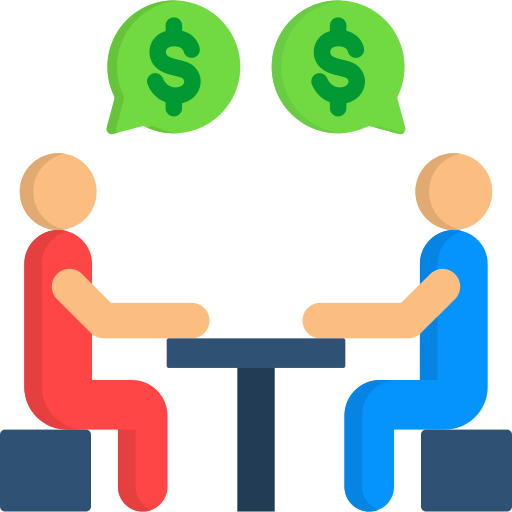
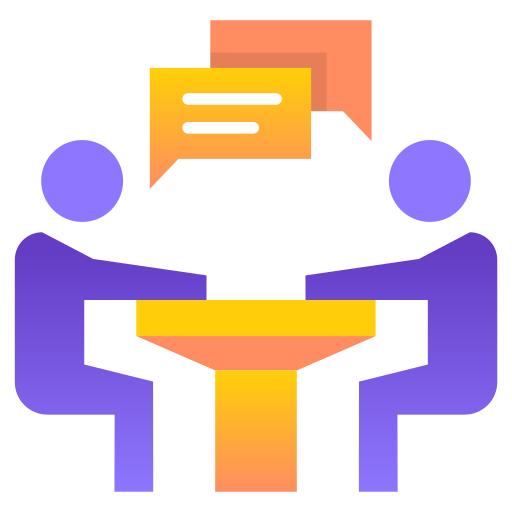
fix: update HeroSection styles for improved responsiveness and visual consistency

diff --git a/frontend/src/components/customer/home/HeroSection.jsx b/frontend/src/components/customer/home/HeroSection.jsx
@@ -221,16 +221,16 @@ export default function HeroSection() {
             viewport={{ once: true, amount: 0.3 }}
             transition={{ duration: 2, ease: "easeInOut" }}
             className="
-    absolute z-30  shadow-2xl rounded-2xl p-1
-    w-20 top-8 left-0              /* MOBILE DEFAULT */
-sm-mid:left-4 sm-mid:w-24
-    sm:w-36 sm:top-12 sm:left-2      /* SMALL SCREENS (480px–640px) */
+    absolute z-10 border-2 border-sky-500 shadow-2xl rounded-2xl p-1
+    w-[90px] top-8 left-0              /* MOBILE DEFAULT */
+sm-mid:left-16 sm-mid:w-30
+    sm:w-36 sm:top-12 sm:left-2 sm:border-2     /* SMALL SCREENS (480px–640px) */
     md:w-40 md:top-16 md:left-8     /* MID SCREENS (768px–1024px) */
 
-    lg:w-44 lg:top-20 lg:left-28  /* DESKTOP (YOUR ORIGINAL VALUES) */
+    lg:w-48 lg:top-20 lg:left-28  /* DESKTOP (YOUR ORIGINAL VALUES) */
   "
           >
-            <img
+            {/* <img
               decoding="async"
               loading="lazy" // ✅ critical for FCP
               src="/assets/home/herosection/teamwork.webp"
@@ -249,12 +249,12 @@ sm-mid:left-4 sm-mid:w-24
               height="176"
               alt="Preview"
               className="w-full  h-20 sm:h-36 md:h-40 lg:h-44 rounded-xl"
-            />
+            /> */}
 
             {/* CENTERED TEXT */}
-            <div className="absolute top-1 flex shadow-5xl shadow-black/40 flex-col items-center justify-center text-center px-2">
+            <div className="flex shadow-5xl shadow-black/40 flex-col px-2">
               <p
-                className="font-extrabold text-xl sm:text-5xl drop-shadow-lg"
+                className="font-extrabold  sm:font-extrabold text-2xl sm:text-5xl drop-shadow-lg"
                 style={{
                   WebkitTextStroke: "2px white",
                   color: "black",
@@ -264,10 +264,10 @@ sm-mid:left-4 sm-mid:w-24
               </p>
 
               <p
-                className="text-xs sm:text-lg font-semibold drop-shadow  shadow-black/40"
+                className="text-[7px] sm:text-end sm:text-sm sm:font-semibold drop-shadow shadow-black/40"
                 style={{
-                  WebkitTextStroke: "0.3px black",
-                  color: "cyan",
+                  // WebkitTextStroke: "1px white",
+                  color: "black",
                 }}
               >
                 Verified Vendors
@@ -275,8 +275,10 @@ sm-mid:left-4 sm-mid:w-24
             </div>
 
             {/* BOTTOM LABEL */}
-            <div className="absolute  top-1/2 bg-yellow-300 m-1 mt-0 p-1 rounded-lg text-center text-xs sm:text-sm md:text-sm lg:text-base font-semibold">
-              <p>Find the best vendor of the right place</p>
+            <div className=" bg-yellow-300 p-0.5 sm:m-1 sm:p-1 md-p-2 rounded-lg text-center sm:text-sm">
+              <p className="text-[6px] md:text-xs">
+                Find the best vendor of the right place
+              </p>
             </div>
           </motion.div>
 
@@ -296,13 +298,13 @@ sm-mid:left-4 sm-mid:w-24
     absolute z-50 flex space-x-1 bg-stone-800 text-green92 shadow-xl
     rounded-2xl py-0 px-2
 
-    text-sm bottom-32 left-2           /* MOBILE: 360px–480px */
+    text-sm bottom-36 left-5           /* MOBILE: 360px–480px */
 sm-mid:left-8 
     sm:text-2xl sm:left-6 sm:bottom-52 /* SMALL SCREENS: 480–640px */
 
-    md:text-3xl md:left-12 md:bottom-64 /* MEDIUM: 768–1024px */
+    md:text-3xl md:left-12 md:bottom-72 /* MEDIUM: 768–1024px */
 
-    lg:text-3xl lg:left-44 lg:bottom-56 /* DESKTOP: YOUR ORIGINAL VALUES */
+    lg:text-3xl lg:left-44 lg:bottom-76 /* DESKTOP: YOUR ORIGINAL VALUES */
 
     w-20 sm:w-36 md:w-40 lg:w-40
   "
@@ -329,8 +331,8 @@ sm-mid:left-8
             transition={{ duration: 2, ease: "easeInOut" }}
             className="
     absolute z-30 bg-purple32 shadow-xl rounded-2xl py-1 px-2
-    w-24 left-0 bottom-4            /* MOBILE (360px–480px) */
-sm-mid:w-28
+    w-[90px] left-0 bottom-4            /* MOBILE (360px–480px) */
+sm-mid:w-28 sm-mid:left-8
     sm:w-36 sm:bottom-16   /* SMALL SCREENS */
 
     md:w-40 md:left-8 md:bottom-16 /* MEDIUM (768px–1024px) */
@@ -364,8 +366,8 @@ sm-mid:w-28
             transition={{ duration: 2, ease: "easeInOut" }}
             className="
     absolute z-10 bg-aceeff shadow-xl rounded-2xl px-2 py-1
-    w-24  h-204 top-8 right-0                        /* MOBILE (360px–480px) */
-sm-mid:right-6 sm-mid:w-24
+    w-[90px]  h-204 top-8 right-0                        /* MOBILE (360px–480px) */
+sm-mid:right-10 sm-mid:w-24
     sm:w-36 sm:h-36 sm:top-16  sm:py-2 sm:right-10               /* SMALL SCREENS (480–640px) */
 
     md:w-48 md:top-16 md:right-10             /* MEDIUM (768–1024px) */
@@ -374,10 +376,10 @@ sm-mid:right-6 sm-mid:w-24
   "
           >
             <h2 className="font-bold text-xl sm:text-6xl">Join</h2>
-            <p className="text-gray-800 text-md font-bold sm:text-xl">
+            <p className="text-gray-800 text-sm font-semibold sm:text-xl">
               As A Vendor
             </p>
-            <p className="text-gray-800 font-semibold text-xs sm:text-sm">
+            <p className="text-gray-800 font-semibold text-[8px] sm:text-sm">
               With zero cost
             </p>
 
@@ -406,18 +408,20 @@ sm-mid:right-6 sm-mid:w-24
             viewport={{ once: true, amount: 0.3 }}
             transition={{ duration: 2, ease: "easeInOut" }}
             className="
-    absolute z-10 bg-white shadow-xl rounded-2xl p-0
-    w-28  bottom-4 right-0              /* MOBILE (360–480px) */
+    absolute z-10 bg-yellow-50 shadow-xl rounded-2xl border-2 border-black p-0
+    w-[90px]  bottom-4 right-0              /* MOBILE (360–480px) */
 sm-mid:right-2 sm-mid:w-28
-    sm:w-40 sm:bottom-16 sm:right-0      /* SMALL SCREENS (480–640px) */
+    sm:w-40 sm:bottom-16 sm:right-0 sm:border-2     /* SMALL SCREENS (480–640px) */
 
-    md:w-44 md:bottom-16 md:right-4    /* MEDIUM/TABLET (768–1024px) */
+    md:w-44 md:bottom-16 md:right-4 md:h-40   /* MEDIUM/TABLET (768–1024px) */
 
-    lg:w-[240px] lg:bottom-20 lg:right-6    /* DESKTOP — YOUR ORIGINAL VALUES */
+    lg:w-[240px] lg:h-48 lg:bottom-20 lg:right-6    /* DESKTOP — YOUR ORIGINAL VALUES */
   "
           >
-            <div className="flex items-center m-1 rounded-lg font-bold justify-center flex-wrap sm:gap-2 mt-0 bg-teal-300 sm:mt-2">
-              <h1>Live-Price Negotiation</h1>
+            <div className="flex mt-1 py-1 items-center m-1 rounded-xl sm:font-bold justify-center flex-wrap bg-[#FFAA00]">
+              <h1 className="text-[6px] text-black font-bold text-center sm:text-xs lg:text-lg">
+                Live-Price Negotiation
+              </h1>
               {/* <span className="bg-red-600 text-white text-xs sm:text-sm px-2 py-[2px] rounded-lg">
                 1.5k
               </span>
@@ -442,7 +446,7 @@ sm-mid:right-2 sm-mid:w-28
               width="662"
               height="364"
               alt="Preview"
-              className="w-full h-20 sm:h-32 md:h-44  rounded-t-xl"
+              className="w-full  h-16 sm:h-32 md:h-30 lg:h-36 rounded-xl"
             />
           </motion.div>
         </div>